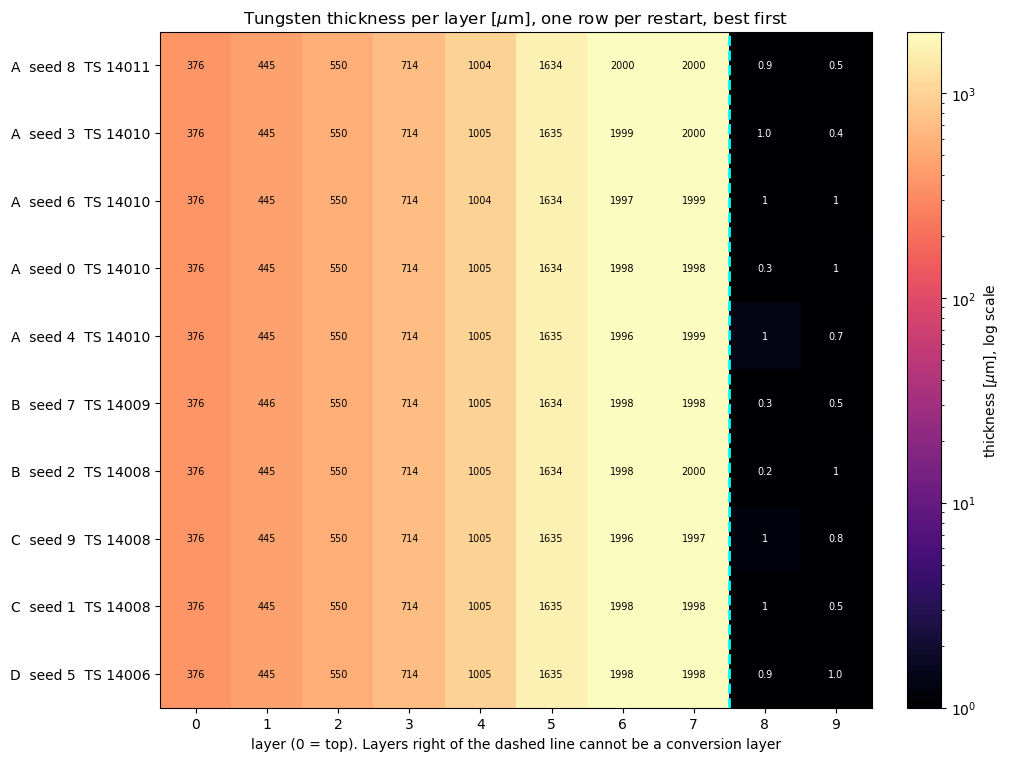
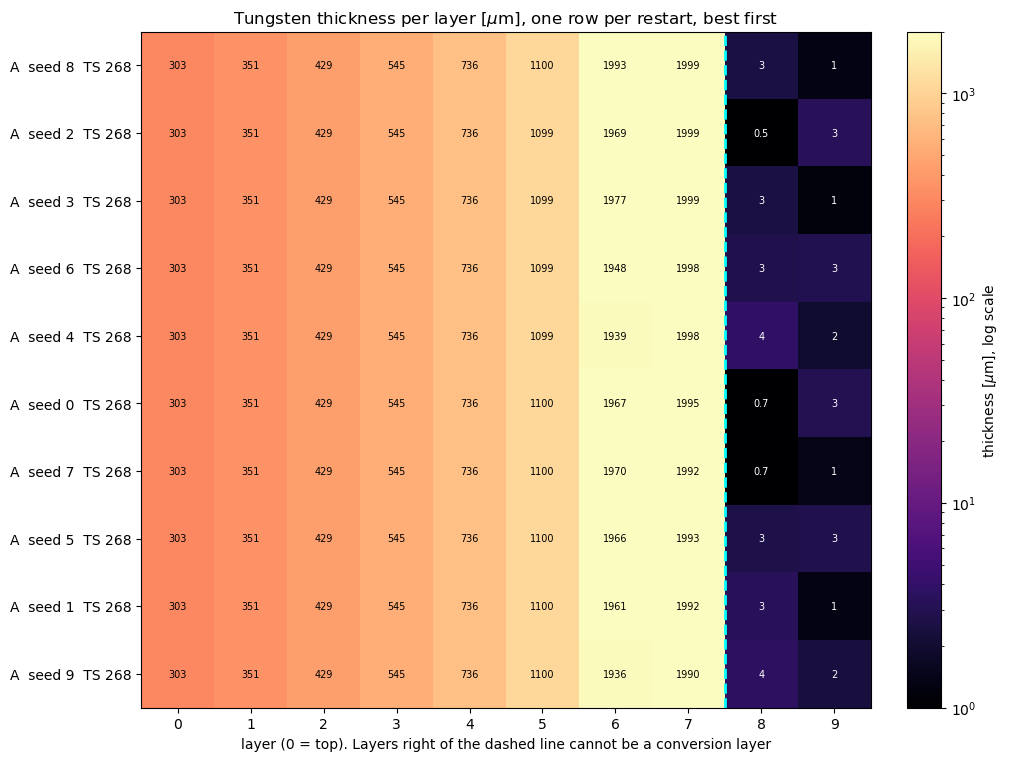
Re-run with the LAT-referenced inputs: report, figures, README numbers
Regenerate the design report and the four README figures from the notebook run with the
calibrated ACD turn-on, the LAT source and background levels and the halved optimiser
steps (11.5 minutes instead of 24), and update the numbers quoted in the README.

Result: TS 198 at the initial design, 268 (Z = 16.4) at the optimum, 663 signal photons,
no-label TS 238. All ten restarts reach one basin, foils rising smoothly with depth from
303 to 1999 um, only the last one at the 0.2 cm bound. ACD 1.39 cm at the efficiency
ceiling (inefficiency 5e-4; it was 2.87 cm with the toy turn-on). PSF68 5.9 and PSF95
17.9 degrees, per bin 8.8 degrees at 126 MeV, 1.2 at 1.3 GeV and 0.24 at 7 GeV: 1.6 to
2.5 times the LAT requirement, so the optimum still trades sharpness for photons at TS 10
times the detection threshold. At the optimum the field of view holds 663 signal photons,
2.4e5 diffuse photons and 5.1e5 charged-leak events.

The layers that cannot be conversion layers keep 1.7 um of foil after 1000 steps (0.5 um
after 2000): a numerical leftover that costs 0.001% of the TS.

Checked: nbconvert exits 0 with no error outputs, all four figures re-exported and the
design views opened. The findings log follows separately.

diff --git a/README.md b/README.md
@@ -6,8 +6,8 @@
 
 > **Status: work in progress.** This project uses automatic differentiation (JAX) to optimise the parameters of a
 > gamma-ray pair-conversion tracker, in particular the distribution and amount of tungsten foil. It is at an early
-> stage: the inputs are placeholders and the two thickest foils sit at a placeholder bound, so no design conclusion
-> should be drawn yet. See [FINDINGS.md](FINDINGS.md) for what has been learnt so far and [ROADMAP.md](ROADMAP.md) for
+> stage: the detector size and some other inputs are placeholders and the thickest foil sits at a placeholder bound, so no
+> design conclusion should be drawn yet. See [FINDINGS.md](FINDINGS.md) for what has been learnt so far and [ROADMAP.md](ROADMAP.md) for
 > what is planned.
 
 **How much tungsten, and where?** A pair-conversion tracker needs material to convert the photons, but the same material
@@ -26,8 +26,8 @@ the end-to-end optimisation programme of the MODE collaboration ([white paper](h
 | **Free parameters** | Tungsten thickness of each layer, layer spacing, strip pitch, ACD thickness and threshold |
 | **Reconstruction** | A Kalman filter over the hits below the conversion vertex, with scattering, energy loss and the energy sharing of the pair, so the PSF has tails |
 | **Optimiser** | Adam on the gradient from `jax.grad`, in an unbounded space mapped to the allowed ranges by a sigmoid |
-| **Result so far** | Ten random restarts end in one design: foil thickness rising smoothly from 0.38 mm in the top layer to 2 mm in the last conversion layer. TS 14,011, PSF68 6.3 degrees, PSF95 18.6 degrees |
-| **Honest caveats** | The two thickest foils are at the 0.2 cm placeholder bound. Hit inefficiency and pattern recognition are not modelled, so the PSF is optimistic. Fluxes, size and exposure are placeholders |
+| **Result so far** | Ten random restarts end in one design: foil thickness rising smoothly from 0.30 mm in the top layer to 2 mm in the last conversion layer. TS 268 (Z = 16) for a source of 1e-7 /cm2 s seen for a year, PSF68 5.9 degrees, PSF95 17.9 degrees |
+| **Honest caveats** | The thickest foil is at the 0.2 cm placeholder bound, and the detector size (40 cm) is a placeholder. Fluxes and exposure come from LAT numbers (the charged flux is inferred). The reconstruction is ideal (no hit inefficiency, no pattern recognition). The optimised PSF is 1.6 to 2.5 times wider than the LAT requirement: the optimiser trades sharpness for photons |
 
 ## Ten random restarts, one design
 
